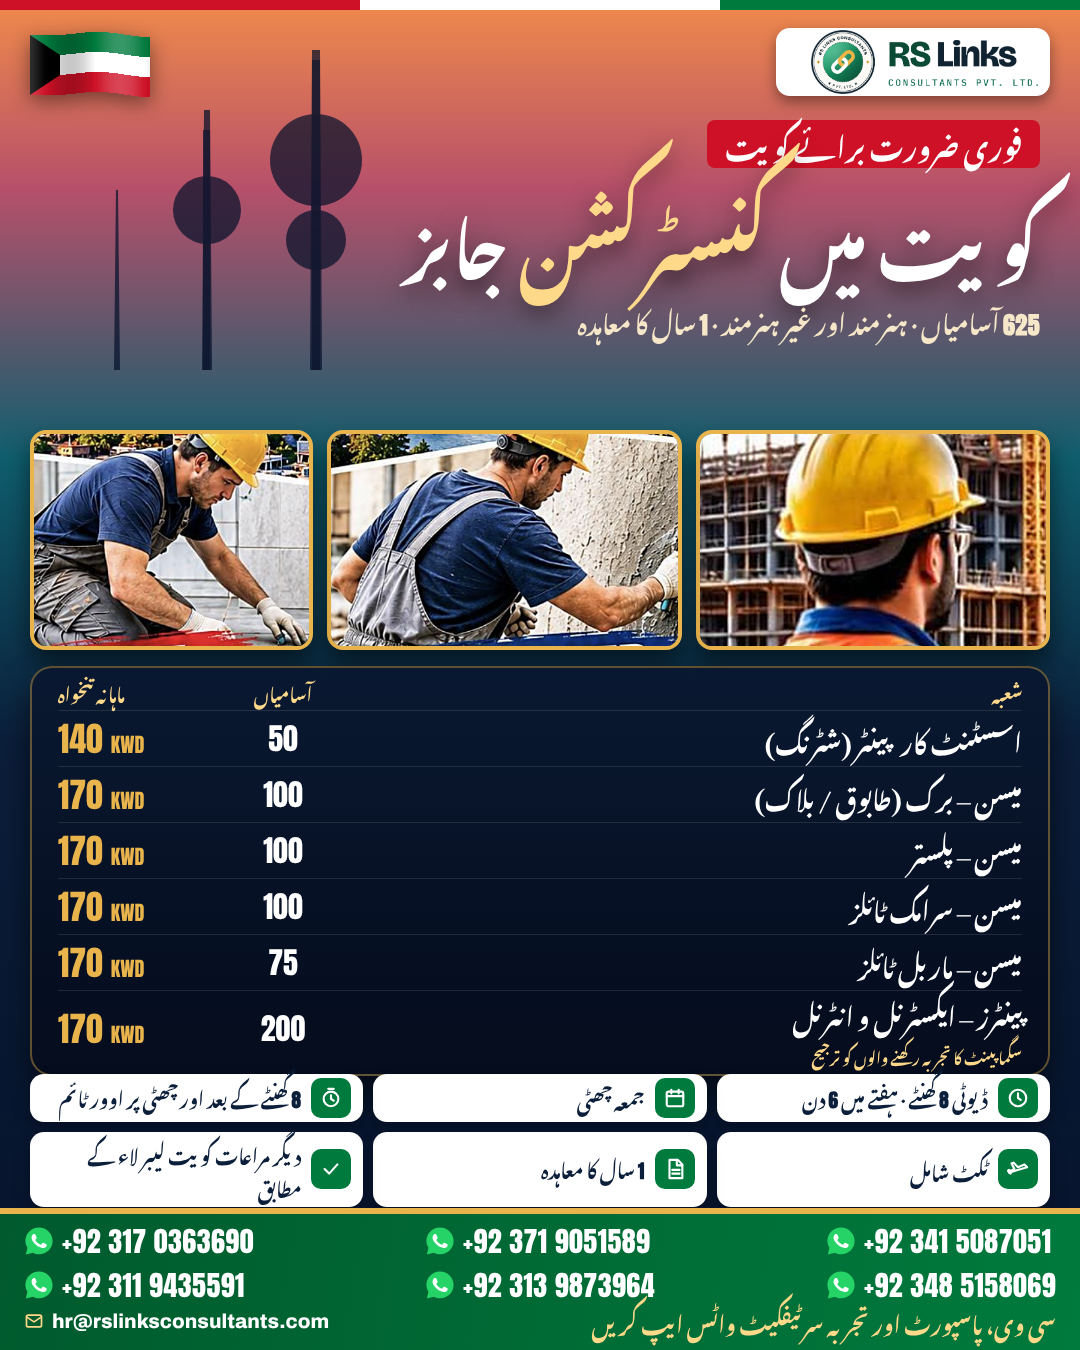
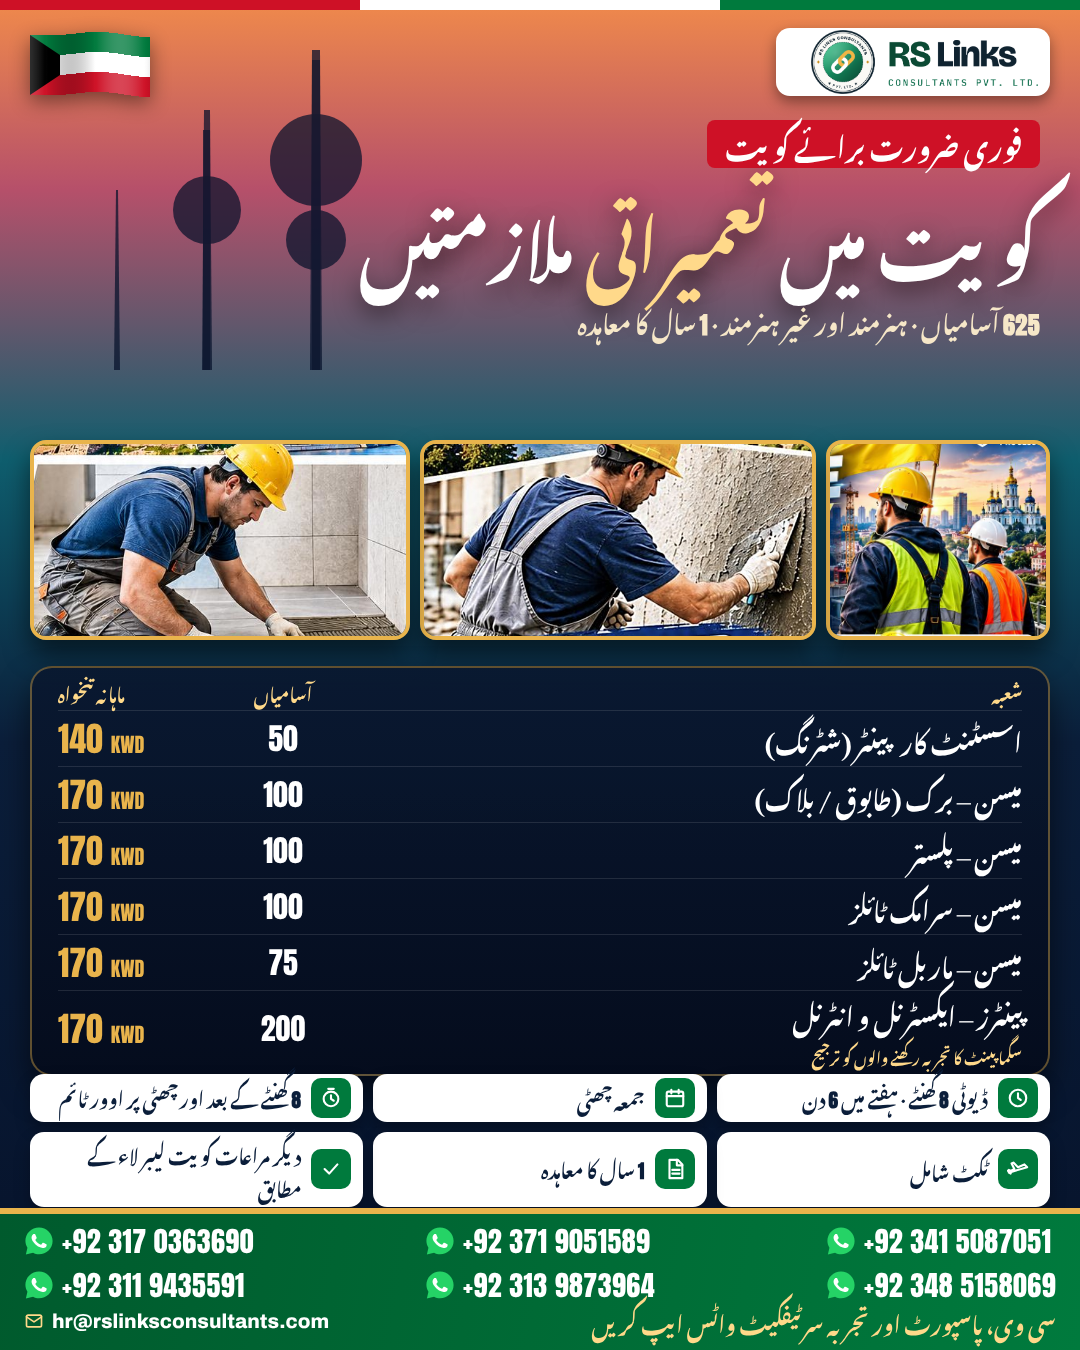
Kuwait construction ads: uncropped photos, Urdu title translated
Claude-Session: https://claude.ai/code/session_01YJ5ofgU8QCiWTsYR9pvXG4

Changed region(s): [[0.0306, 0.3111, 0.9778, 0.4978], [0.3361, 0.0933, 0.7333, 0.2489]]

diff --git a/src/kuwait_construction_ur.py b/src/kuwait_construction_ur.py
@@ -30,11 +30,11 @@ def build():
 <div class='abs' style='top:30px;left:30px;filter:drop-shadow(0 6px 10px #0007)'>{flag('kw', 120, True, 'kwcu')}</div>
 <div class='abs' style='top:120px;right:40px;width:760px'>
  <div style='display:inline-block;background:{RED};border-radius:8px;padding:0 18px'>{T('فوری ضرورت برائے کویت', 28, '#fff', 'font-weight:700', 1.7)}</div>
- {T(f"کویت میں <span style='color:{GOLD2}'>کنسٹرکشن</span> جابز", 70, '#fff', 'font-weight:700;margin-top:6px;white-space:nowrap;text-shadow:0 8px 24px #0008', 1.75)}
+ {T(f"کویت میں <span style='color:{GOLD2}'>تعمیراتی</span> ملازمتیں", 70, '#fff', 'font-weight:700;margin-top:6px;white-space:nowrap;text-shadow:0 8px 24px #0008', 1.75)}
  {T(f"{N(625)} آسامیاں · ہنرمند اور غیر ہنرمند · {N(1)} سال کا معاہدہ", 24, '#F6E7C8', 'font-weight:700;margin-top:2px', 1.75)}</div>
 
-<div class='abs' style='top:430px;left:30px;right:30px;height:220px;display:grid;grid-template-columns:1.25fr 1.25fr 1fr;gap:14px'>
- {ph('rslinks_construction_engineer.png', 'center 30%')}{ph('rs_plaster2.jpg', '30% 30%')}{ph('rs_tile2.jpg', '45% 30%')}</div>
+<div class='abs' style='top:440px;left:30px;right:30px;height:200px;display:flex;gap:10px'>
+ <div style='flex:1.13'>{ph('ua_hero.png', 'center')}</div><div style='flex:2'>{ph('rs_plaster2.jpg', 'center')}</div><div style='flex:1.92'>{ph('rs_tile_mason.png', 'center')}</div></div>
 
 <div class='abs' style='top:666px;left:30px;right:30px;border-radius:22px;background:linear-gradient(180deg,#0A1830ee,#050C1Cee);border:2px solid {GOLD}66;padding:6px 26px 8px;box-sizing:border-box;box-shadow:0 16px 30px #0008'>
  <div style='display:grid;grid-template-columns:1fr 110px 170px;height:36px;align-items:center'>{T('شعبہ', 18, GOLD2, 'font-weight:700', 1.6)}{T('آسامیاں', 18, GOLD2, 'font-weight:700;text-align:center', 1.6)}{T('ماہانہ تنخواہ', 18, GOLD2, 'font-weight:700;text-align:left', 1.6)}</div>{rows}</div>

diff --git a/src/kuwait_construction.py b/src/kuwait_construction.py
@@ -46,8 +46,8 @@ def build():
  <div style='font:400 96px Anton;color:#fff;line-height:.95;letter-spacing:2px;margin-top:12px;text-shadow:0 8px 24px #0008'>CONSTRUCTION<br>JOBS IN <span style='color:{GOLD2}'>KUWAIT</span></div>
  <div style='font:800 23px Archivo;color:#F6E7C8;margin-top:10px'>625 posts · Skilled &amp; unskilled · 1-year agreement</div></div>
 
-<div class='abs' style='top:430px;left:30px;right:30px;height:220px;display:grid;grid-template-columns:1fr 1.25fr 1.25fr;gap:14px'>
- {ph('rslinks_construction_engineer.png', 'center 30%')}{ph('rs_plaster2.jpg', '30% 30%')}{ph('rs_tile2.jpg', '45% 30%')}</div>
+<div class='abs' style='top:440px;left:30px;right:30px;height:200px;display:flex;gap:10px'>
+ <div style='flex:1.13'>{ph('ua_hero.png', 'center')}</div><div style='flex:2'>{ph('rs_plaster2.jpg', 'center')}</div><div style='flex:1.92'>{ph('rs_tile_mason.png', 'center')}</div></div>
 
 <div class='abs' style='top:666px;left:30px;right:30px;border-radius:22px;background:linear-gradient(180deg,#0A1830ee,#050C1Cee);border:2px solid {GOLD}66;padding:10px 26px 8px;box-sizing:border-box;box-shadow:0 16px 30px #0008'>
  <div style='display:grid;grid-template-columns:1fr 110px 170px;font:800 14px Archivo;color:{GOLD2};letter-spacing:2px;height:28px;align-items:center'><span>CATEGORY</span><span style='text-align:center'>POSTS</span><span style='text-align:right'>SALARY / MONTH</span></div>{rows}</div>
